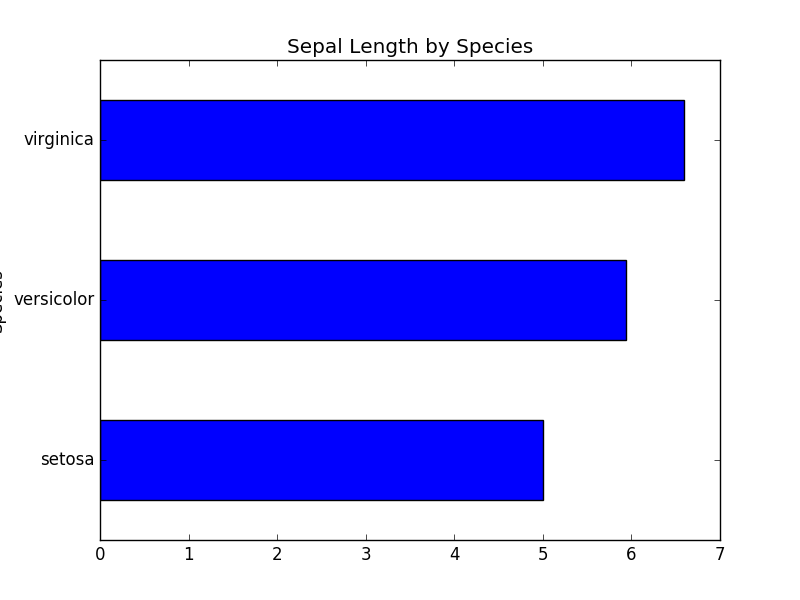
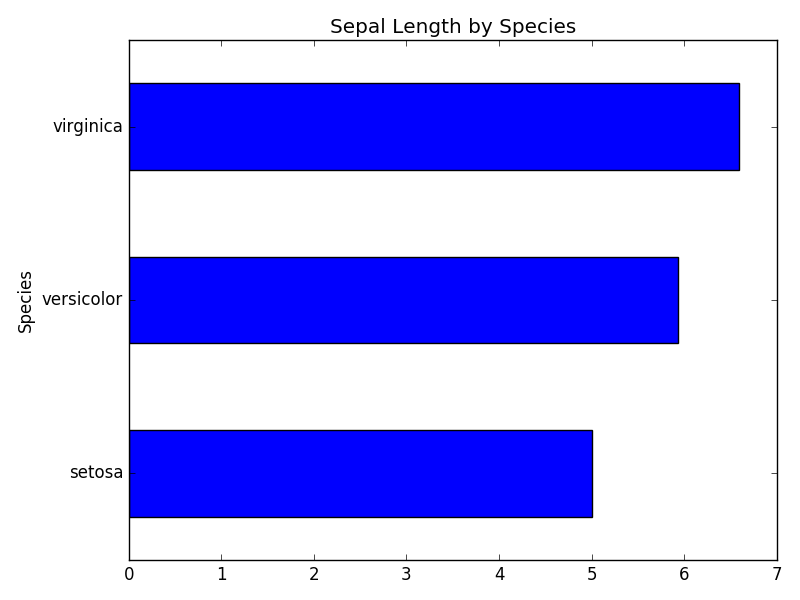
pep8 & tight_layout() python axis mis-alignment

Changed region(s): [[0.0, 0.03, 1.0, 0.96]]

diff --git a/visualization_and_plotting/readme.md b/visualization_and_plotting/readme.md
@@ -21,7 +21,7 @@ iris %>%
 import numpy  as np
 import pandas as pd
 import matplotlib.pyplot as plt
-from   sklearn import datasets
+from sklearn import datasets
 
 scikit_iris  = datasets.load_iris()
 col_names = scikit_iris.feature_names
@@ -34,6 +34,7 @@ iris['Species'] = iris['Species'].map({
                     2: scikit_iris.target_names[2]  
                   })
 iris.groupby(['Species'])['sepal length (cm)'].mean().plot(kind = 'barh', title = 'Sepal Length by Species')
+plt.tight_layout()
 plt.savefig('py_sep_length_by_species.png')
 ```
 
